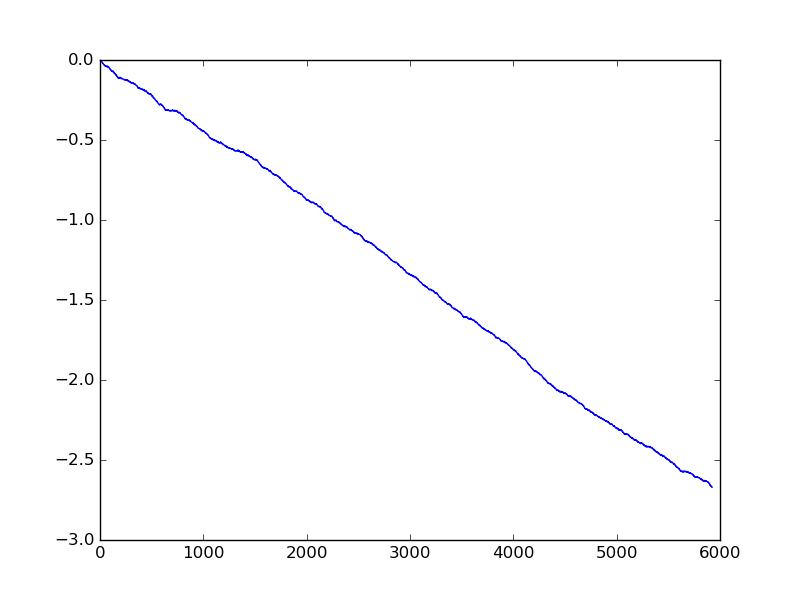
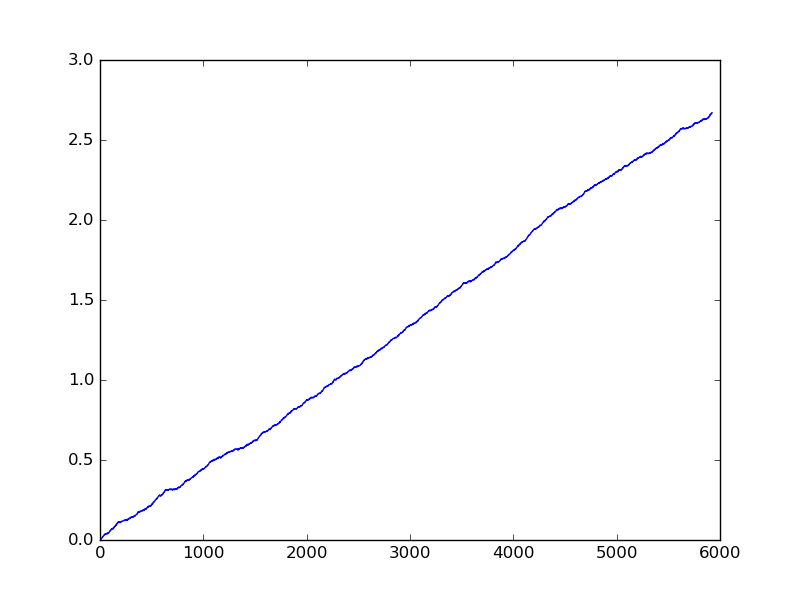
correct pictures for gyro exercise 4.2

diff --git a/Lecture5/exercise_imu/imu_exercise_gyro.py b/Lecture5/exercise_imu/imu_exercise_gyro.py
@@ -8,9 +8,9 @@
 
 ## Uncomment the file to read ##
 #fileName = 'nmea_data.txt'
-#fileName = 'imu_razor_data_static.txt'
+fileName = 'imu_razor_data_static.txt'
 #fileName = 'imu_razor_data_yaw_90deg.txt'
-fileName = 'imu_razor_data_pitch_45deg.txt'
+#fileName = 'imu_razor_data_pitch_45deg.txt'
 #fileName = 'imu_razor_data_roll_45deg.txt'
 
 ## IMU type
@@ -66,7 +66,7 @@ for line in f:
                 gyro_z = float(csv[14])
 
 
-	sum += gyro_x;
+	sum += gyro_z;
 	count+=1
 bias = sum/count;
 
@@ -125,7 +125,7 @@ for line in f:
 
 
 	dt = ts_now-ts_prev
-	angle += (gyro_x-bias)*dt
+	angle += (gyro_z-bias)*dt
 
 
 	# in order to show a plot use this function to append your value to a list:
@@ -146,5 +146,5 @@ if showPlot == True:
 	#plt.plot(plotLine)
 
 	print "Bias: ",bias
-	plt.savefig('imu_exercise_plot_gyro_z_without_bias.png')
+	plt.savefig('imu_exercise_plot_gyro_z_static_without_bias.png')
 	plt.show()
